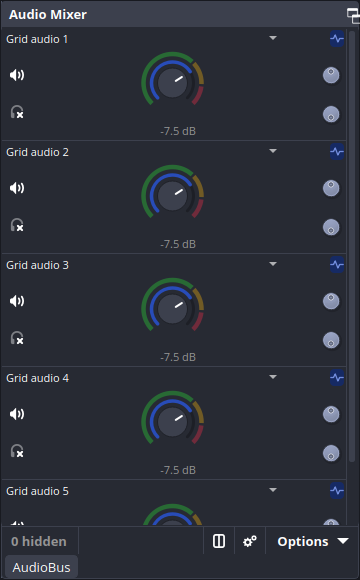
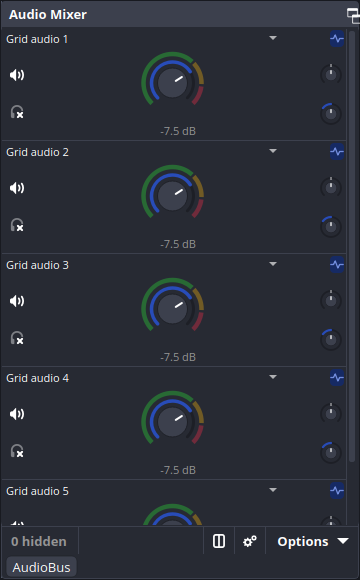
Share gain rotary styling with compact pan and sync encoders

diff --git a/src/front-audio-controls.cpp b/src/front-audio-controls.cpp
@@ -1,4 +1,5 @@
 #include "front-audio-controls.h"
+#include "rotary-paint.h"
 #include <QApplication>
 #include <QWidget>
 #include <QBoxLayout>
@@ -24,8 +25,6 @@
 #include <QMouseEvent>
 #include <QWheelEvent>
 #include <QKeyEvent>
-#include <QStylePainter>
-#include <QStyleOptionSlider>
 #include <QCursor>
 #include <QStringList>
 #include <QSaveFile>
@@ -42,25 +41,58 @@
 namespace augment {
 namespace {
 constexpr int maxOffsetMs=999999;
+// Paint the two small controls using the same ring, face and pointer as
+// gain. No meter sampling, animated clock or extra overlay widgets.
+class CompactRotary : public QDial {
+public:
+    explicit CompactRotary(QWidget *parent,bool endless=false):QDial(parent),endless_(endless){
+        setNotchesVisible(false);
+        setFocusPolicy(Qt::StrongFocus);
+    }
+protected:
+    void paintEvent(QPaintEvent *) override {
+        QPainter p(this);p.setRenderHint(QPainter::Antialiasing);
+        const auto pal=palette();
+        const auto group=isEnabled()?QPalette::Active:QPalette::Disabled;
+        const double side=qMin(width(),height())-4.;
+        if(side<8)return;
+        const QRectF ring((width()-side)/2.,(height()-side)/2.,side,side);
+        const auto face=ring.adjusted(side*.21,side*.21,-side*.21,-side*.21);
+        const QBrush accent(pal.color(group,QPalette::Highlight));
+        p.setOpacity(isEnabled()?1.:.48);
+        if(endless_){
+            // A rotating highlight segment is not a progress bar; offset
+            // values have no meaningful angular minimum or maximum.
+            constexpr int cycle=360;
+            const double angle=90.-((value()%cycle+cycle)%cycle);
+            paintRotaryFace(p,ring,face,pal,group,accent,90,-360,angle+54,-54,angle,.64);
+        }else{
+            const double span=double(maximum())-minimum();
+            const double fraction=span>0?qBound(0.,(sliderPosition()-double(minimum()))/span,1.):.5;
+            const double f=invertedAppearance()?1.-fraction:fraction;
+            const double angle=225.-270.*f;
+            // Balance is bipolar, so the accent grows out from center.
+            paintRotaryFace(p,ring,face,pal,group,accent,225,-270,90,angle-90,angle,.64);
+            p.setPen(QPen(pal.color(group,QPalette::ButtonText),.8,Qt::SolidLine,Qt::RoundCap));
+            p.drawLine(QPointF(ring.center().x(),ring.top()-.5),QPointF(ring.center().x(),ring.top()+1.5));
+        }
+        if(hasFocus()){
+            p.setBrush(Qt::NoBrush);p.setPen(QPen(pal.color(group,QPalette::Highlight),.8,Qt::DotLine));
+            p.drawEllipse(ring.adjusted(-1.5,-1.5,1.5,1.5));
+        }
+    }
+private:
+    bool endless_;
+};
 // Absolute value is the actual sync offset, not the dial's angle. The
 // painted indicator wraps, while input is relative and the value saturates.
-class SyncEncoder final : public QDial {
+class SyncEncoder final : public CompactRotary {
 public:
-    explicit SyncEncoder(QWidget *parent):QDial(parent){
+    explicit SyncEncoder(QWidget *parent):CompactRotary(parent,true){
         setRange(-maxOffsetMs,maxOffsetMs);
         setSingleStep(10);setPageStep(100);setNotchesVisible(false);
     }
 protected:
-    void paintEvent(QPaintEvent *) override {
-        QStyleOptionSlider option;initStyleOption(&option);
-        constexpr int cycle=360;
-        const int phase=((value()%cycle)+cycle)%cycle;
-        option.minimum=0;option.maximum=cycle-1;
-        option.sliderPosition=option.sliderValue=phase;
-        option.dialWrapping=true;option.notchTarget=0;
-        QStylePainter painter(this);
-        painter.drawComplexControl(QStyle::CC_Dial,option);
-    }
     void mousePressEvent(QMouseEvent *e) override {
         if(e->button()!=Qt::LeftButton){e->ignore();return;}
         lastY=e->globalPosition().y();dragging=true;
@@ -1185,7 +1217,7 @@ void FrontAudioControls::refresh(){
             pan->setSizePolicy(QSizePolicy::Expanding,QSizePolicy::Fixed);
             pan->setToolTip("Stereo pan · L 0 · Center 50 · R 100");
             outer->addWidget(pan,1);
-            auto *panDial=new QDial(controls);
+            auto *panDial=new CompactRotary(controls);
             panDial->setObjectName("aftermarket-pan-dial");
             panDial->setRange(0,100);
             panDial->setNotchesVisible(false);

diff --git a/tests/front-audio-controls-test.cpp b/tests/front-audio-controls-test.cpp
@@ -24,6 +24,8 @@
 #include <QMouseEvent>
 #include <QWheelEvent>
 #include <QKeyEvent>
+#include <QImage>
+#include <QPalette>
 #include <iostream>
 #define REQUIRE(x) do{if(!(x)){std::cerr<<"FAIL "<<__LINE__<<" "<<#x<<"\n";return 1;}}while(false)
 int main(int argc,char **argv){
@@ -192,6 +194,29 @@ int main(int argc,char **argv){
  REQUIRE(ui.setKnobs(true));
  REQUIRE(ui.knobs()&&panDial->isVisible()&&!pan->isVisible());
  REQUIRE(offsetDial->isVisible()&&offset->isVisible()); // precise ms available
+ // Small rotary controls must paint the same theme-accent ring language,
+ // not the platform QDial face. Use an unmistakable palette accent.
+ QPalette rotaryPalette=panDial->palette();
+ rotaryPalette.setColor(QPalette::Highlight,QColor("#ff00ff"));
+ rotaryPalette.setColor(QPalette::Mid,QColor("#303030"));
+ rotaryPalette.setColor(QPalette::Button,QColor("#202020"));
+ rotaryPalette.setColor(QPalette::ButtonText,QColor("#ffffff"));
+ panDial->setPalette(rotaryPalette);offsetDial->setPalette(rotaryPalette);
+ auto accentPixels=[](QDial *dial){
+     const auto img=dial->grab().toImage().convertToFormat(QImage::Format_RGB32);
+     int count=0;
+     for(int y=0;y<img.height();++y)for(int x=0;x<img.width();++x){
+         const auto c=img.pixelColor(x,y);
+         if(c.red()>180&&c.blue()>180&&c.green()<65)++count;
+     }
+     return count;
+ };
+ REQUIRE(accentPixels(panDial)>=5&&accentPixels(offsetDial)>=5);
+ const auto oldFace=offsetDial->grab().toImage();
+ rotaryPalette.setColor(QPalette::Highlight,QColor("#00ff00"));
+ offsetDial->setPalette(rotaryPalette);app.processEvents();
+ REQUIRE(oldFace!=offsetDial->grab().toImage()&&accentPixels(offsetDial)==0);
+ panDial->setPalette(QPalette());offsetDial->setPalette(QPalette());
  panDial->setValue(65);offsetDial->setValue(1000);
  REQUIRE(pans==2&&offsets==2);
  REQUIRE(qAbs(current[0].balance-.65)<.001&&current[0].offsetMs==1000);

diff --git a/src/gradient.cpp b/src/gradient.cpp
@@ -1,4 +1,5 @@
 #include "gradient.h"
+#include "rotary-paint.h"
 #include <QApplication>
 #include <QDockWidget>
 #include <QSlider>
@@ -500,24 +501,12 @@ public:
             // The inner arc continues to indicate gain, not signal level.
         }
         const QRectF arc=r.adjusted(integrated?10:2,integrated?10:2,integrated?-10:-2,integrated?-10:-2);
-        p.setBrush(Qt::NoBrush);
-        p.setPen(QPen(pal.color(group,QPalette::Mid),3.,Qt::SolidLine,Qt::RoundCap));
-        p.drawArc(arc,225*16,-270*16);
         QConicalGradient g(center,225+patternOffset(spec.pattern,phase)*360);
         if(spec.enabled&&spec.sliders) {
             setPatternStops(g,colors,spec.pattern,phase);
         } else {auto c=pal.color(group,QPalette::Highlight);g.setColorAt(0,c);g.setColorAt(1,c);}
-        p.setPen(QPen(QBrush(g),3.5,Qt::SolidLine,Qt::RoundCap));
-        if(f>0)p.drawArc(arc,225*16,int(-270*16*f));
         const auto face=r.adjusted(integrated?16:8,integrated?16:8,integrated?-16:-8,integrated?-16:-8);
-        if(face.isValid()) {
-            p.setPen(QPen(pal.color(group,QPalette::Mid),1));
-            p.setBrush(pal.color(group,QPalette::Button));p.drawEllipse(face);
-            const auto rad=(225-270*f)*3.141592653589793/180.;
-            const QPointF direction(std::cos(rad),-std::sin(rad));
-            p.setPen(QPen(pal.color(group,QPalette::ButtonText),2.,Qt::SolidLine,Qt::RoundCap));
-            p.drawLine(center+direction*(face.width()*.13),center+direction*(face.width()*.37));
-        }
+        paintRotaryFace(p,arc,face,pal,group,QBrush(g),225,-270,225,-270*f,225-270*f);
         if(s->hasFocus()) {
             p.setBrush(Qt::NoBrush);p.setPen(QPen(pal.color(group,QPalette::Highlight),1,Qt::DotLine));
             p.drawEllipse(r.adjusted(-2,-2,2,2));

diff --git a/src/rotary-paint.h b/src/rotary-paint.h
@@ -1,0 +1,29 @@
+#pragma once
+#include <QPainter>
+#include <QPalette>
+#include <cmath>
+
+namespace augment {
+// Shared gain, balance and encoder visual vocabulary. Geometry is relative
+// to the available diameter; the caller supplies the value semantics and
+// accent brush (which may be the existing animated gain gradient).
+inline void paintRotaryFace(QPainter &p,const QRectF &ring,const QRectF &face,
+                            const QPalette &palette,QPalette::ColorGroup group,
+                            const QBrush &accent,double start,double sweep,
+                            double activeStart,double activeSweep,double pointer,
+                            double scale=1.0){
+    p.setBrush(Qt::NoBrush);
+    p.setPen(QPen(palette.color(group,QPalette::Mid),qMax(1.,3.*scale),Qt::SolidLine,Qt::RoundCap));
+    p.drawArc(ring,qRound(start*16),qRound(sweep*16));
+    p.setPen(QPen(accent,qMax(1.5,3.5*scale),Qt::SolidLine,Qt::RoundCap));
+    if(std::abs(activeSweep)>.01)p.drawArc(ring,qRound(activeStart*16),qRound(activeSweep*16));
+    if(!face.isValid())return;
+    p.setPen(QPen(palette.color(group,QPalette::Mid),qMax(.65,scale)));
+    p.setBrush(palette.color(group,QPalette::Button));p.drawEllipse(face);
+    constexpr double pi=3.141592653589793;
+    const auto rad=pointer*pi/180.;
+    const QPointF direction(std::cos(rad),-std::sin(rad));
+    p.setPen(QPen(palette.color(group,QPalette::ButtonText),qMax(1.15,2.*scale),Qt::SolidLine,Qt::RoundCap));
+    p.drawLine(face.center()+direction*(face.width()*.13),face.center()+direction*(face.width()*.37));
+}
+}

diff --git a/docs/user-guide.md b/docs/user-guide.md
@@ -766,7 +766,7 @@ Enable **AudioBus alternate routing view** in **OBS Settings → Aftermarket →
 
 ![Native Audio Mixer: Live Latent TTS shown in full, very long name truncated, both channels equally wide](screenshots/readme/mixer-name-independent-width.webp)
 
-**Compact rotary channels:** In the horizontal mixer with gain knobs and **Pan and sync as knobs** enabled, the native dB label moves beneath the main gain knob. Pan and sync knobs sit opposite the original mute and monitor controls. Right-click the sync knob to enter an exact millisecond value, or drag up/down or scroll to adjust the endless encoder by 10 ms per pixel or wheel detent (Shift: 1 ms). The indicator wraps; the actual offset saturates at the existing ±999999 ms range rather than wrapping. Hover shows current pan or sync. The original status label retains its text for accessibility and displays a compact pin, activity or inactive icon for recognized English native statuses. Unknown status text remains unchanged. The source name uses the reclaimed header space. Switching off rotary presentation or narrowing below the compact threshold restores the native header and adjustment row. These changes retain the original fader, meter and source settings.
+**Compact rotary channels:** In the horizontal mixer with gain knobs and **Pan and sync as knobs** enabled, the native dB label moves beneath the main gain knob. Pan and sync knobs sit opposite the original mute and monitor controls. Right-click the sync knob to enter an exact millisecond value, or drag up/down or scroll to adjust the endless encoder by 10 ms per pixel or wheel detent (Shift: 1 ms). The indicator wraps; the actual offset saturates at the existing ±999999 ms range rather than wrapping. Hover shows current pan or sync. The small pan and sync knobs share the main gain knob’s face, pointer and ring renderer, with a theme-palette accent. Pan indicates deviation from center; the sync accent segment rotates with the relative encoder. Neither small knob samples audio or runs an animation clock; animated custom gradient fills and peak rings remain on the gain controls. The original status label retains its text for accessibility and displays a compact pin, activity or inactive icon for recognized English native statuses. Unknown status text remains unchanged. The source name uses the reclaimed header space. Switching off rotary presentation or narrowing below the compact threshold restores the native header and adjustment row. These changes retain the original fader, meter and source settings.
 
 ![Compact rotary mixer channels in an isolated OBS test profile](screenshots/readme/mixer-rotary-current.png)
 

diff --git a/ACTIVE_WORK.md b/ACTIVE_WORK.md
@@ -3659,3 +3659,25 @@ unattributed shutdown allocations. Screenshot inspected and saved to
 README. Live orientation switch with existing grid and other themes/
 platforms not independently qualified. Production OBS untouched, no
 installation or push. Unrelated src/plugin.cpp comment preserved.
+
+## 2026-11-25: shared compact rotary appearance
+
+User asked small pan/sync knobs to match large gain knobs. Extract common
+ring/face/pointer paint helper into rotary-paint.h and reuse in gain
+Gradient Layer and 24px CompactRotary QDial subclass. Gain retains current
+gradient brush, meter scale and geometry. Pan uses center-out arc and
+center mark; endless sync uses full circular track with 54-degree accent
+segment and modulo-360 indicator, absolute signed offset unchanged.
+Small knobs use active/disabled palette roles, focus ring and scaled
+strokes. Static palette accent by design, no extra gradient timer or
+audio-meter subscription; custom animated gain gradient not replicated.
+Native QDial pan input and existing relative SyncEncoder input unchanged.
+RED palette-accent pixel test fails old platform QDial. GREEN palette
+change/render assertions plus existing native input and gain tests.
+Full CTest 41/41 /tmp/am-small-dial-final-ctest.log. Native OBS 32.2.0
+13/13 side-by-side /tmp/am-mixer-columns.uyvCVs/obs.log and 10/10
+horizontal-fader /tmp/am-mixer-rotary.1eDEIy/obs.log, exit0; real
+screenshot inspected, refreshed three README mixer screenshots. Two
+unattributed shutdown allocations each as before. Production profile
+and other platforms/themes not independently tested. No install or
+push. Existing unrelated plugin.cpp comment untouched.

diff --git a/README.md b/README.md
@@ -46,7 +46,7 @@ Keep the familiar native mixer or customize selected channels:
 - Per-source audio-reactive gradient faders and native meter color modulation.
 - Compact Pan and Sync controls that operate native OBS source properties.
 - Channel widths independent of source-name length, with readable labels.
-- Compact rotary mixer channels in both orientations: native dB value below gain, aligned mute/monitor and pan/sync controls, status icons in the header. Endless relative sync encoder (Shift for fine adjustment); right-click for exact milliseconds.
+- Compact rotary mixer channels in both orientations: native dB value below gain, aligned mute/monitor and pan/sync controls, status icons in the header. Pan and sync share the gain knob’s theme-aware face and accent-ring renderer. Endless relative sync encoder (Shift for fine adjustment); right-click for exact milliseconds.
 - Responsive mixer grid: up to four columns for horizontal-fader rows, and automatic wrapping of compact side-by-side rotary strips when all rows fit. Auto mixer grid toggle in the title menu.
 - Persistent channel order: unlock in the mixer title menu, drag source names,
   then lock again. AudioBus follows the same saved order; reset restores native order.
